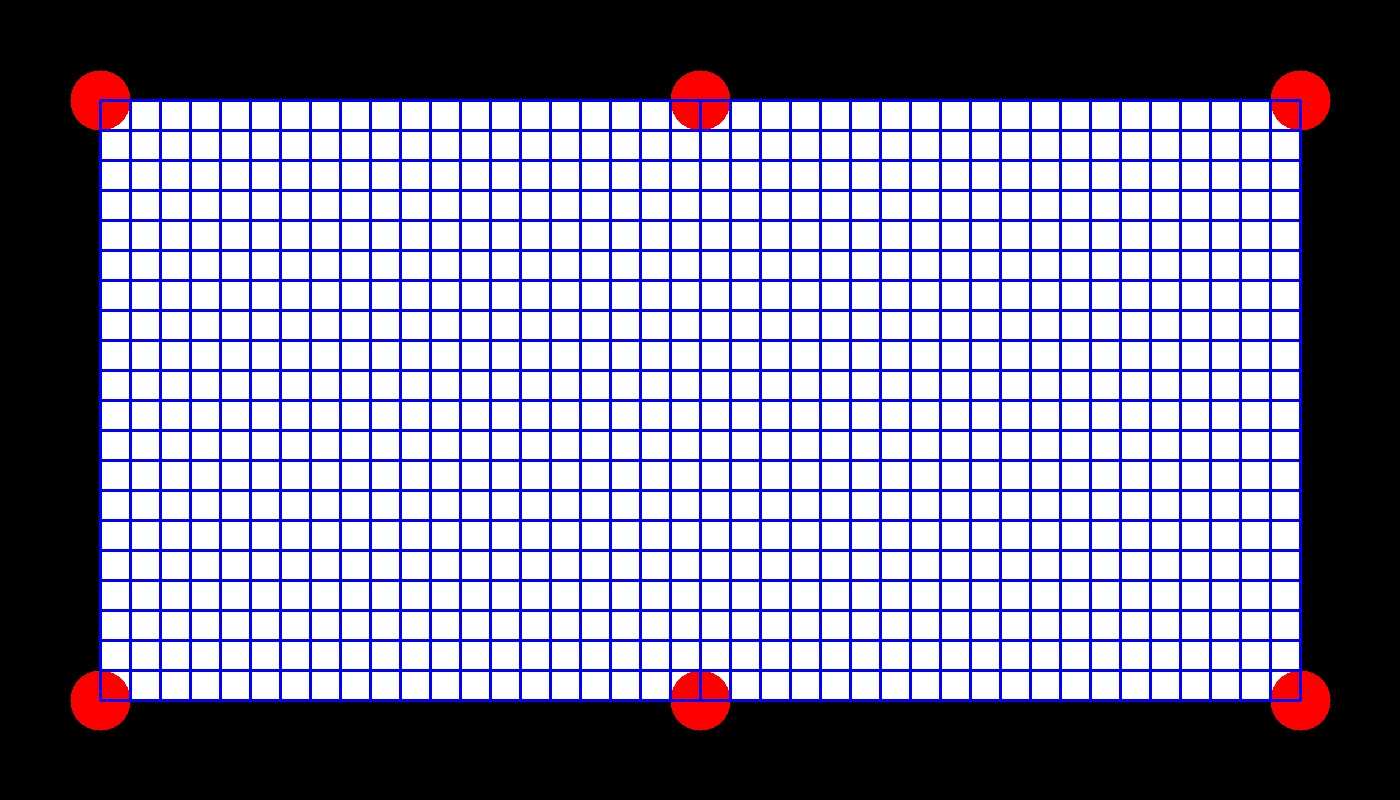
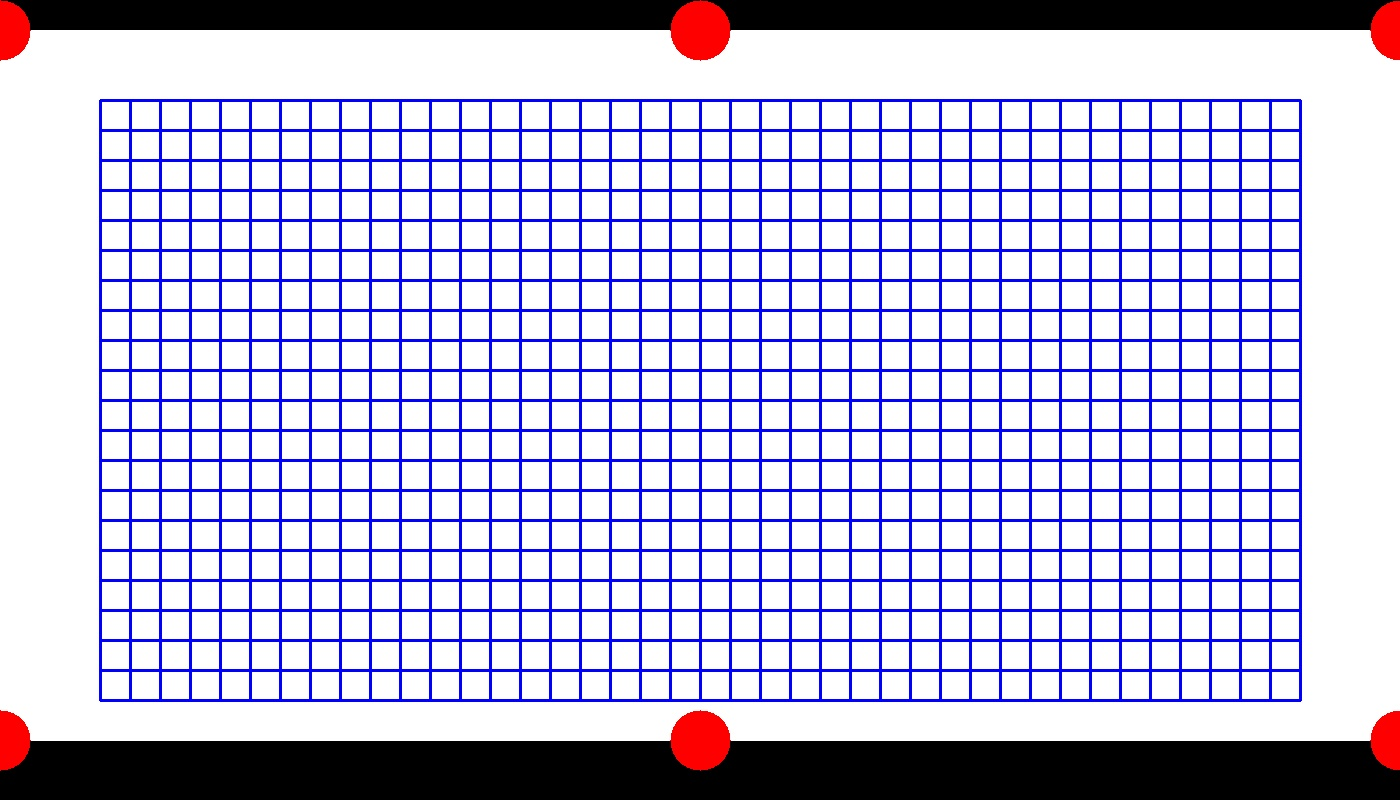
Hopeful Final Code

Changed region(s): [[0.0, 0.0, 1.0, 0.9688]]

diff --git a/shot_calculation.py b/shot_calculation.py
@@ -41,7 +41,7 @@ TABLE_Y_LO = 300        #Table top left corner y coordinate
 NAN = np.nan            #Not a number, used for default and non-reachable values
 INF = np.inf            #Infinity, Used for the x coordinates of the balls is the same
 ROOT2 = math.sqrt(2)    #The Square Root of 2
-REFLECT_DIST = 100      #The Distance of the Reflection Line
+REFLECT_DIST = 250      #The Distance of the Reflection Line
 DONEPIN = 8             #The Pin used to talk back to the arduino with
 LAST_SOLID = 7          #The Value of the the Last Solid
 FIRST_STRIPE = 9        #The Value of the first stripe
@@ -111,7 +111,7 @@ pocket_for_each_ball = [[NAN,INF],[NAN,INF],[NAN,INF],[NAN,INF],[NAN,INF],
 
 
 #A list of pockets with each element being an x-y coordinate for the pocket
-pockets = [[0,0],[600,0],[1200,0],[1200,600],[600,600],[0,600]]
+pockets = [[0,0],[710,0],[1420,0],[1420,740],[710,740],[0,740]]
 center_edges = [[NAN,NAN],[NAN,NAN],[NAN,NAN],[NAN,NAN],[NAN,NAN],[NAN,NAN]]
 
 #A list of X and Y coordinates for each ball
@@ -141,8 +141,8 @@ def calc_center_edges():
     p5[1] = pockets[5][1] - (RADIUS_POCKET/ROOT2)
 
 #board to connect the arduino to 
-board = pyfirmata.Arduino('/dev/cu.usbmodem141101') 
-arduino = serial.Serial(port = '/dev/cu.usbmodem141101',baudrate=115200, timeout=0)
+board = pyfirmata.Arduino('/dev/cu.usbmodem1101') 
+arduino = serial.Serial(port = '/dev/cu.usbmodem1101',baudrate=115200, timeout=0)
 
 
 ################### Collision Check  ###################
@@ -360,22 +360,22 @@ def create_second_lines():
 #brief: Draws the image that is going to be projected onto the pool table
 def drawImage(choice):
     img = np.zeros((800,1400,3), np.uint8)
-    cv.rectangle (img,(100,100),(1300,700),GREEN,1)
+    cv.rectangle (img,pockets[0],pockets[3],GREEN,1)
     chosen_shot = chose_easiest_shot(choice)
     for target_ball in range(NUMBER_OF_BALLS):
         if listX[target_ball]>0:
             if (target_ball==CUE_BALL):
-                cv.circle(img,(listX[target_ball]+100,listY[target_ball]+100),RADIUS_BALL,WHITE,-1)
+                cv.circle(img,(listX[target_ball],listY[target_ball]+20),RADIUS_BALL,WHITE,-1)
             elif (target_ball == chosen_shot):
-                cv.circle(img,(listX[target_ball]+100,listY[target_ball]+100),RADIUS_BALL,YELLOW,-1)
+                cv.circle(img,(listX[target_ball],listY[target_ball]+20),RADIUS_BALL,YELLOW,-1)
     for pocket in pockets:
-        cv.circle(img,(pocket[0]+100,pocket[1]+100),RADIUS_POCKET,BLUE,-1)   
+        cv.circle(img,(pocket[0],pocket[1]+20),RADIUS_POCKET,BLUE,-1)   
 
     print("Chosen Shot is = {c}".format(c = chosen_shot))
     print_dimensions()
     if (chosen_shot>0):
         shot_params = ball_to_shots.get(chosen_shot)
-        cv.line(img,(listX[CUE_BALL]+100,listY[CUE_BALL]+100),(shot_params[GHOST_BALL][0]+100,shot_params[GHOST_BALL][1]+100),YELLOW,4)
+        cv.line(img,(listX[CUE_BALL],listY[CUE_BALL]+20),(shot_params[GHOST_BALL][0],shot_params[GHOST_BALL][1]+20),YELLOW,4)
         if(shot_params[GHOST_BALL][0] == listX[CUE_BALL]):
             slope_og = INF
         else:
@@ -386,9 +386,9 @@ def drawImage(choice):
         x_extended1 = listX[CUE_BALL] - int(REFLECT_DIST * math.cos(theta_og))
         y_extended1 = listY[CUE_BALL] - int(REFLECT_DIST * math.sin(theta_og))
         
-        cv.line(img,(listX[CUE_BALL]+100,listY[CUE_BALL]+100),(x_extended0+100,y_extended0+100),BROWN,3)
-        cv.line(img,(listX[CUE_BALL]+100,listY[CUE_BALL]+100),(x_extended1+100,y_extended1+100),BROWN,3)
-        cv.circle(img,(shot_params[GHOST_BALL][0]+100,shot_params[GHOST_BALL][1]+100),RADIUS_BALL,WHITE,1)
+        cv.line(img,(listX[CUE_BALL],listY[CUE_BALL]+20),(x_extended0,y_extended0+20),YELLOW,3)
+        cv.line(img,(listX[CUE_BALL],listY[CUE_BALL]+20),(x_extended1,y_extended1+20),YELLOW,3)
+        cv.circle(img,(shot_params[GHOST_BALL][0],shot_params[GHOST_BALL][1]+20),RADIUS_BALL,WHITE,1)
         pocketX = int(center_edges[pocket_for_each_ball[chosen_shot-1][0]][POCKETX])
         pocketY = int(center_edges[pocket_for_each_ball[chosen_shot-1][0]][POCKETY])
         m = 0
@@ -400,7 +400,7 @@ def drawImage(choice):
         newX = shot_params[GHOST_BALL][0] + int(REFLECT_DIST * math.cos(theta))
         newY = shot_params[GHOST_BALL][1] + int(REFLECT_DIST * math.sin(theta))
         #cv.line(img,(shot_params[GHOST_BALL][0],shot_params[GHOST_BALL][1]),(newX,newY),GREY,2)
-        cv.line(img,(listX[chosen_shot]+100,listY[chosen_shot]+100),(pocketX+100,pocketY+100),YELLOW,4)
+        cv.line(img,(listX[chosen_shot],listY[chosen_shot]+20),(pocketX,pocketY+20),YELLOW,4)
     else:
         cv.putText(img, "No Shot Found :(", (600,400), FONT, 1, YELLOW, 1, cv.LINE_AA)
     f = open("values.txt","r")
@@ -720,8 +720,8 @@ def distance(x0,y0,x1,y1):
 #starts the api for the shot calculation
 def start_calc(lX,lY,bottomRight,choice):
     print("calculating")
-    xScale = bottomRight[0]/1200
-    yScale = bottomRight[1]/600
+    xScale = bottomRight[0]/1440
+    yScale = bottomRight[1]/740
     #print_dimensions()
     #print("Old List X = {lx}".format(lx = listX))
     #print("Old List Y = {lx}".format(lx = listY))

diff --git a/pool_ball_rec_2.py b/pool_ball_rec_2.py
@@ -347,7 +347,7 @@ def detect_changes(tempList, target):
         #print(newList[3], target, prev_target, big_list[3])
     shot_calculation.start_calc(big_list[0],big_list[1],big_list[2],big_list[3])
 
-arduino = serial.Serial(port = '/dev/cu.usbmodem141101',baudrate=115200, timeout=0)
+arduino = serial.Serial(port = '/dev/cu.usbmodem1101',baudrate=115200, timeout=0)
 imcap = cv2.VideoCapture(0) 
 final_list = DetectPoolBalls()
 final_list = DetectPoolBalls()

diff --git a/projector_allign.py b/projector_allign.py
@@ -15,7 +15,7 @@ YELLOW = (0,255,255)    #BGR Color Representation of the Color Yellow
 GREY = (150,150,150)    #BGR Color Representation of the Color Grey
 RADIUS_POCKET = 30  
 
-pockets = [[100,100],[700,100],[1300,100],[1300,700],[700,700],[100,700]]
+pockets = [[0,30],[700,30],[1400,30],[1400,740],[700,740],[0,740]]
 img = np.zeros((800,1400,3), np.uint8)
 cv.rectangle (img,pockets[0],pockets[3],WHITE,-1)
 for pocket in pockets:
